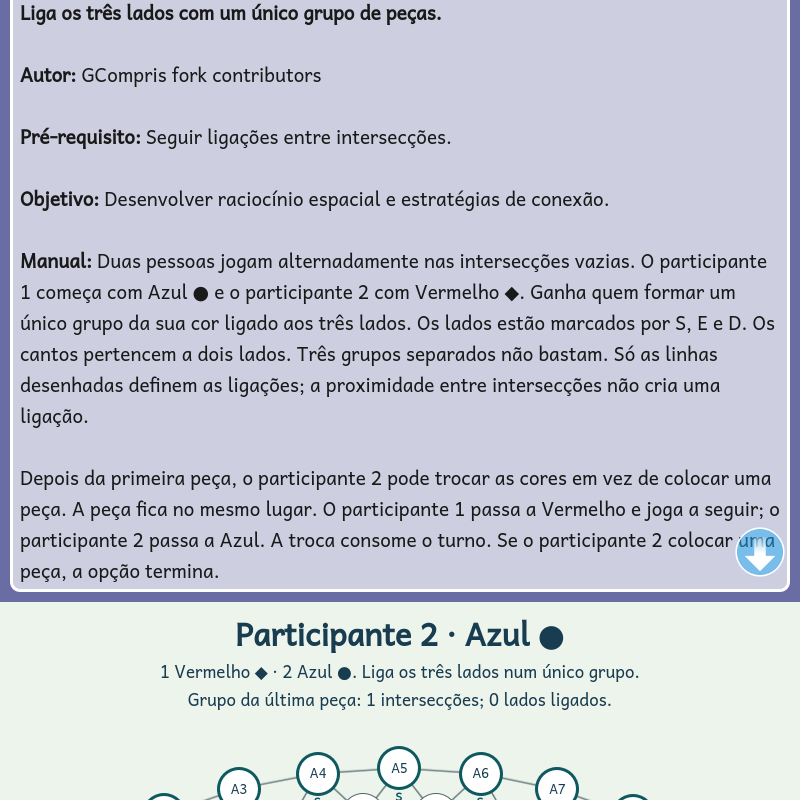
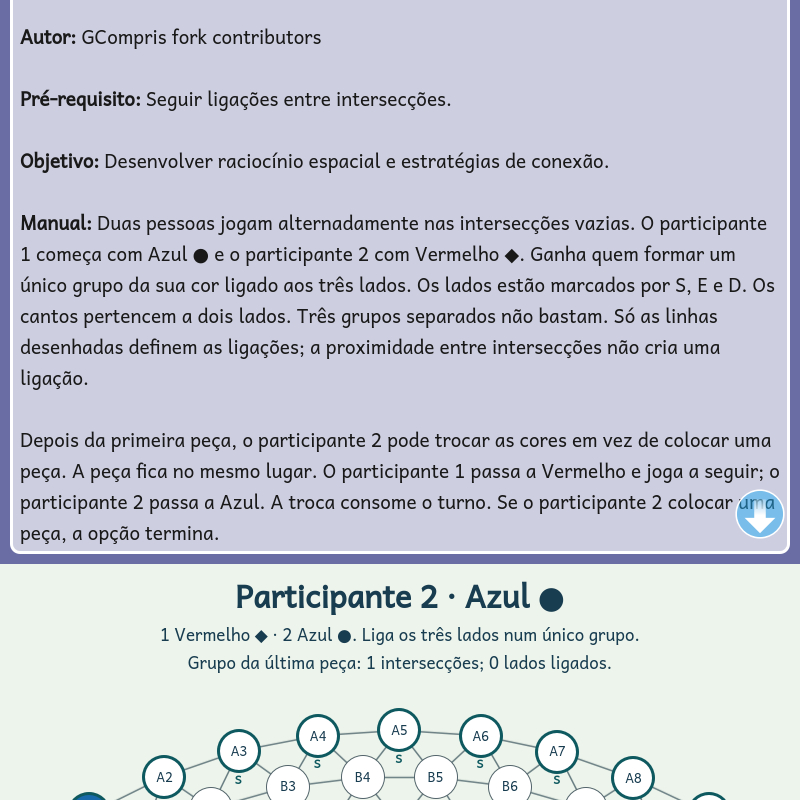
test: verify keyboard restart and Y after integration merge

Changed region(s): [[0.0, 0.0, 1.0, 1.0], [0.875, 0.9688, 0.9062, 1.0], [0.0938, 0.9688, 0.125, 1.0]]

diff --git a/tests/crjm/y.qml b/tests/crjm/y.qml
@@ -139,6 +139,11 @@ TestCase {
         wait(300);
         ensure(node("M1").mapToItem(game, 0, 0).y < before, "Board can slide with a pointer");
         ensure(textIn(node("A5"), "●")); ensure(textIn(node("M1"), "◆"));
+        board.forceActiveFocus(); keyClick(Qt.Key_Tab);
+        ensure(restart.activeFocus, "Tab reaches restart after a normal reply");
+        keyClick(Qt.Key_Space); wait(80); cursor = 0;
+        ensure(textIn(game, "Participante 1 · Azul")); ensure(!swap.enabled);
+        ensure(!textIn(node("A5"), "●")); ensure(!textIn(node("M1"), "◆"));
         click(icon(game, "bar_home.svg")); tryCompare(pageView, "depth", 1, 2000);
         ensure(pageView.currentItem.isMenu);
         grabImage(pageView).save("__QA_OUTPUT__/menu.png");

diff --git a/.scratch/crjm-gcompris/evidence/14-y/README.md b/.scratch/crjm-gcompris/evidence/14-y/README.md
@@ -10,9 +10,10 @@ python3 tools/run-native-qml-case.py \
   --binary /tmp/crjm-native-base/bin/gcompris-qt \
   --activity menu --from-menu \
   --extra-activity dominorio --extra-activity gatos_caes \
-  --extra-activity faisca --extra-activity quelhas --extra-activity y \
+  --extra-activity faisca --extra-activity quelhas \
+  --extra-activity atari_go --extra-activity produto --extra-activity y \
   --qml-file src/activities/menu/Menu.qml --case tests/crjm/y.qml \
-  --output /tmp/crjm-14-final --offline
+  --output /tmp/crjm-14-keyboard --offline
 ```
 
 The red invocation omitted `--extra-activity y`, before Y implementation. The
@@ -26,7 +27,7 @@ legal sequence that only wins when D3 joins the groups. Disconnected boundary
 groups do not win. No fixture or test-only state/winner setter is present.
 Every node can be reached with arrows; Space places through production logic
 and reveals the cursor in the scroll viewport. Touch and mouse activate native
-nodes; Tab reaches swap, restart, zoom and help; help is activated with Space.
+nodes; Tab reaches swap, restart, zoom and help; swap, restart and help are activated with Space.
 The test confirms restart resets the board by replaying transcripts from A1.
 
 The final desktop capture at 1100×1050 was inspected: all 93 nodes and three
@@ -46,3 +47,8 @@ records and provenance are separate from original GPL rule code.
 `result.json` retains source, case, binary and resource hashes, timestamps,
 network isolation, Qt output and screenshot digests. `red-result.json` and
 `red-native.log` preserve the initial failing acceptance.
+
+After merging integration tip e26db408e, menu discovery and every transcript
+passed again. Final run also verifies restart via Tab/Space. The last integration
+merge incorporates only later tracker claims and leaves tested activity sources
+unchanged.
